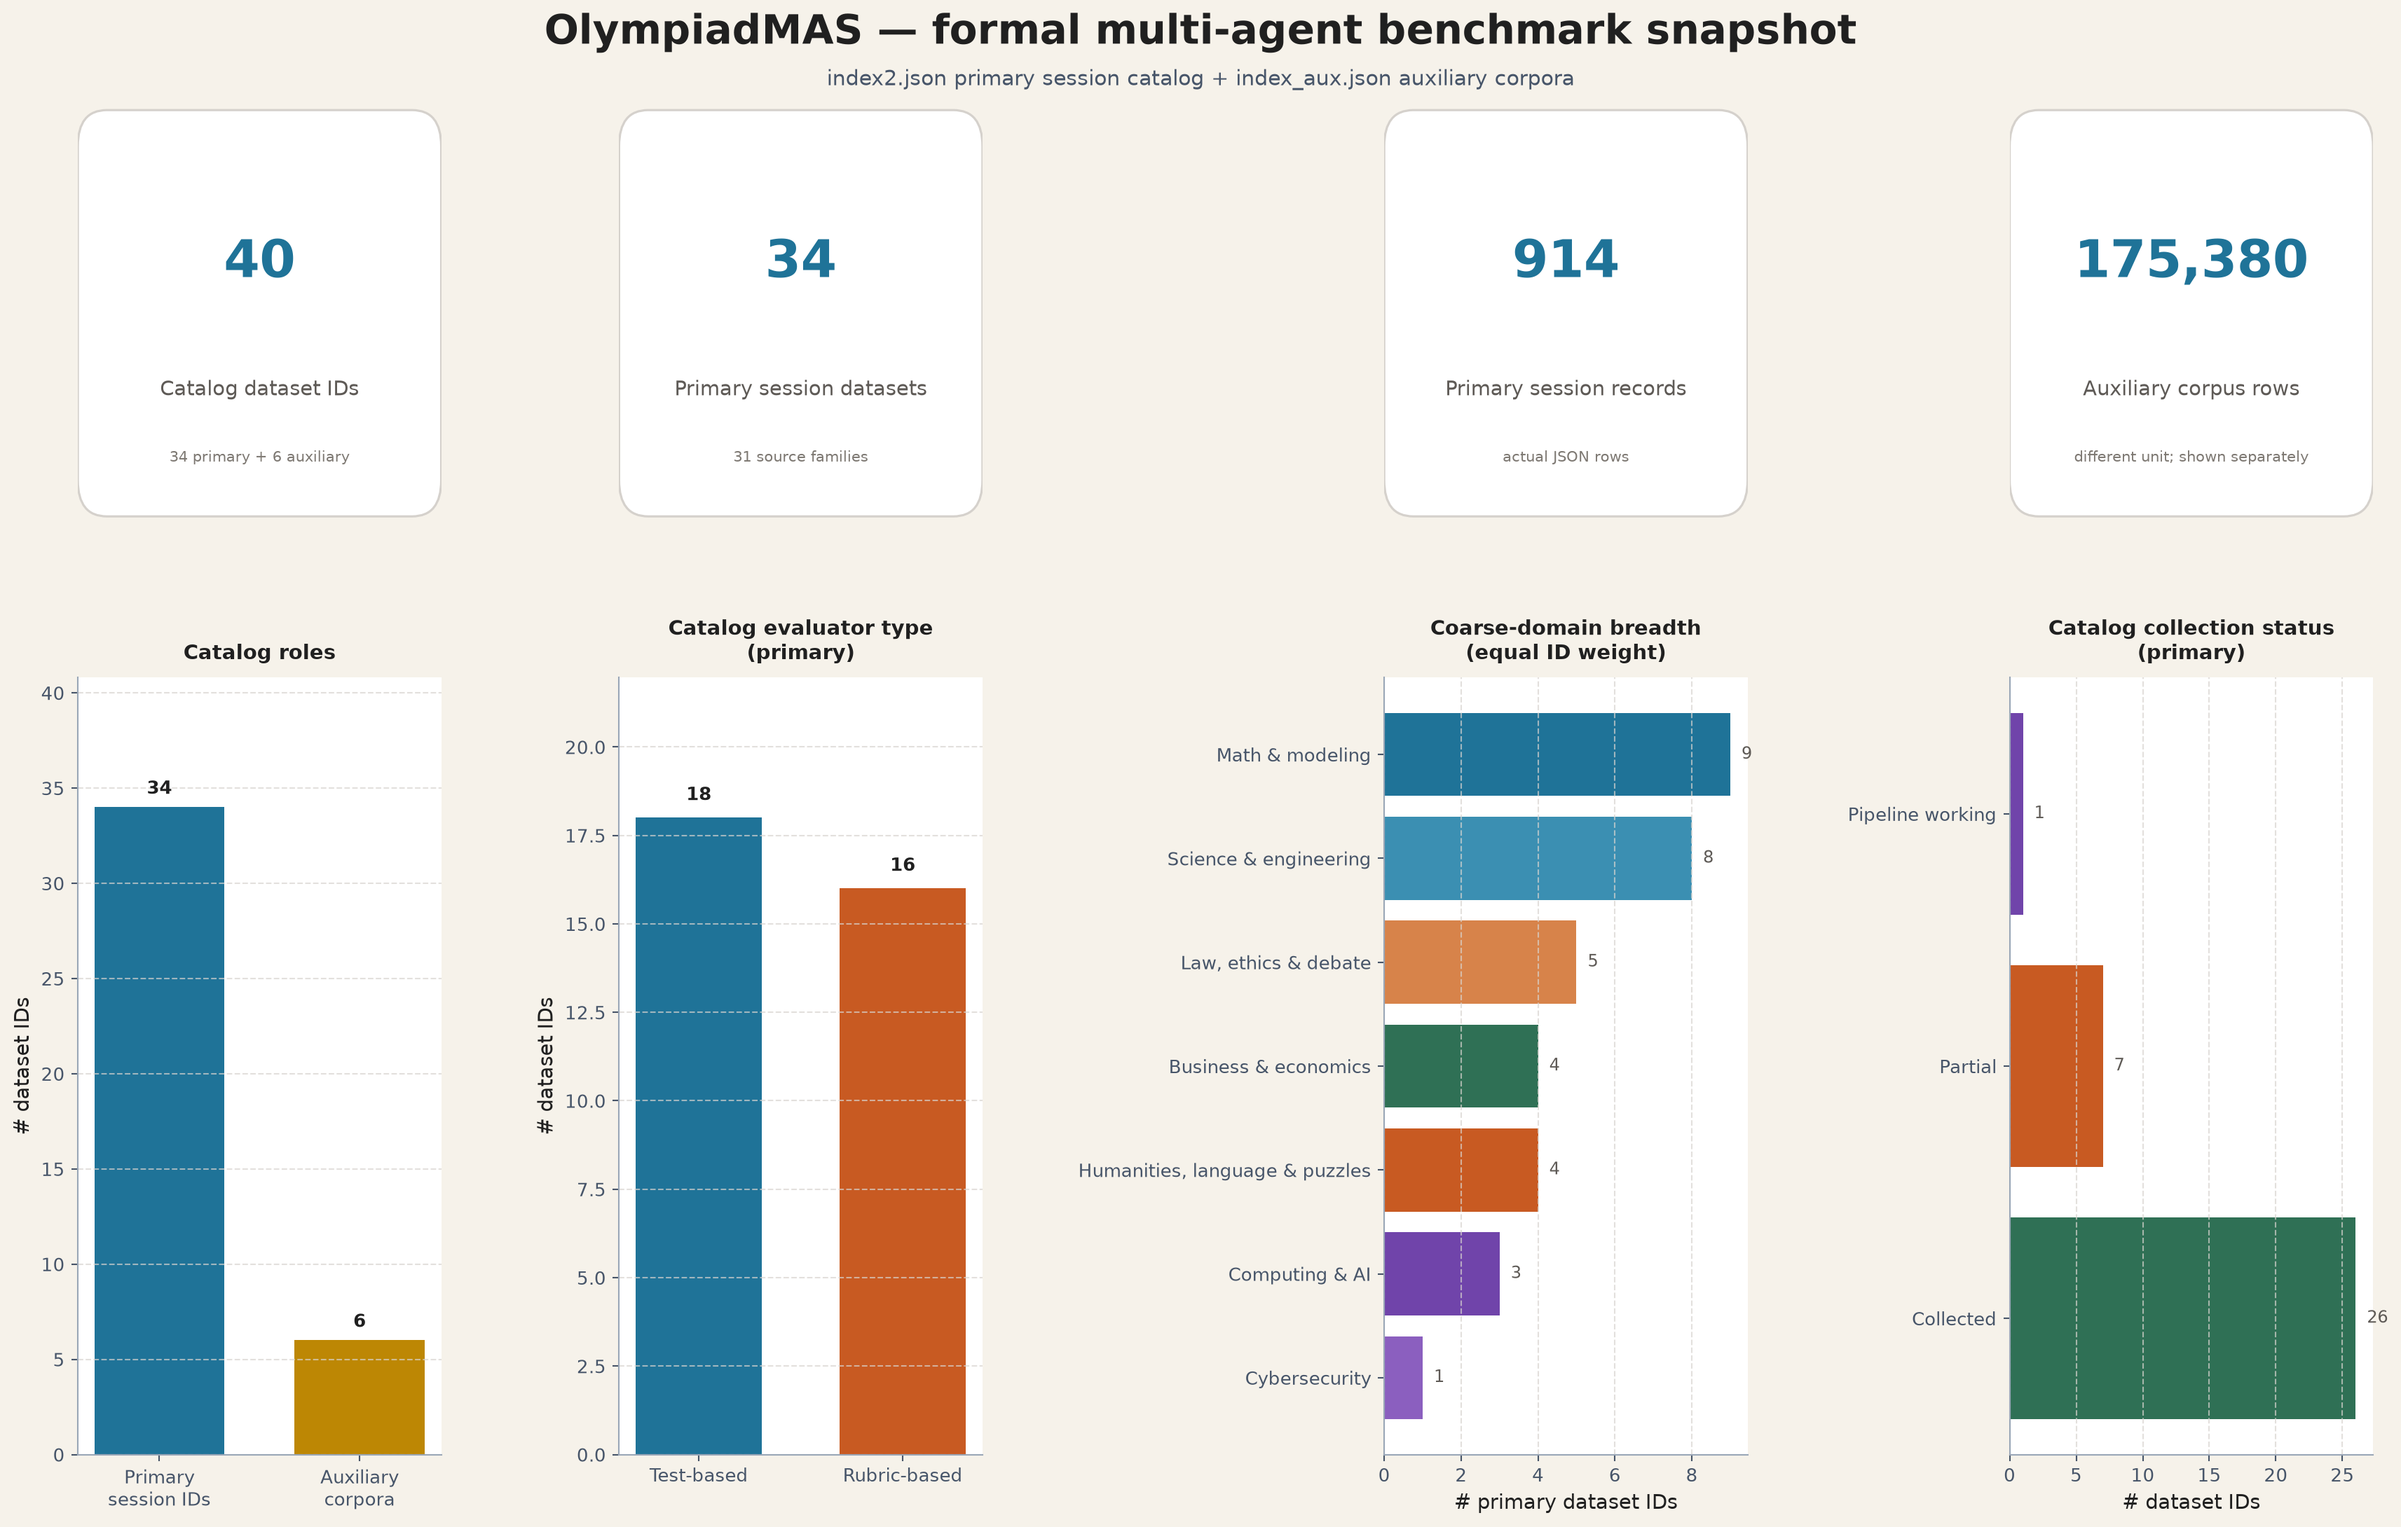
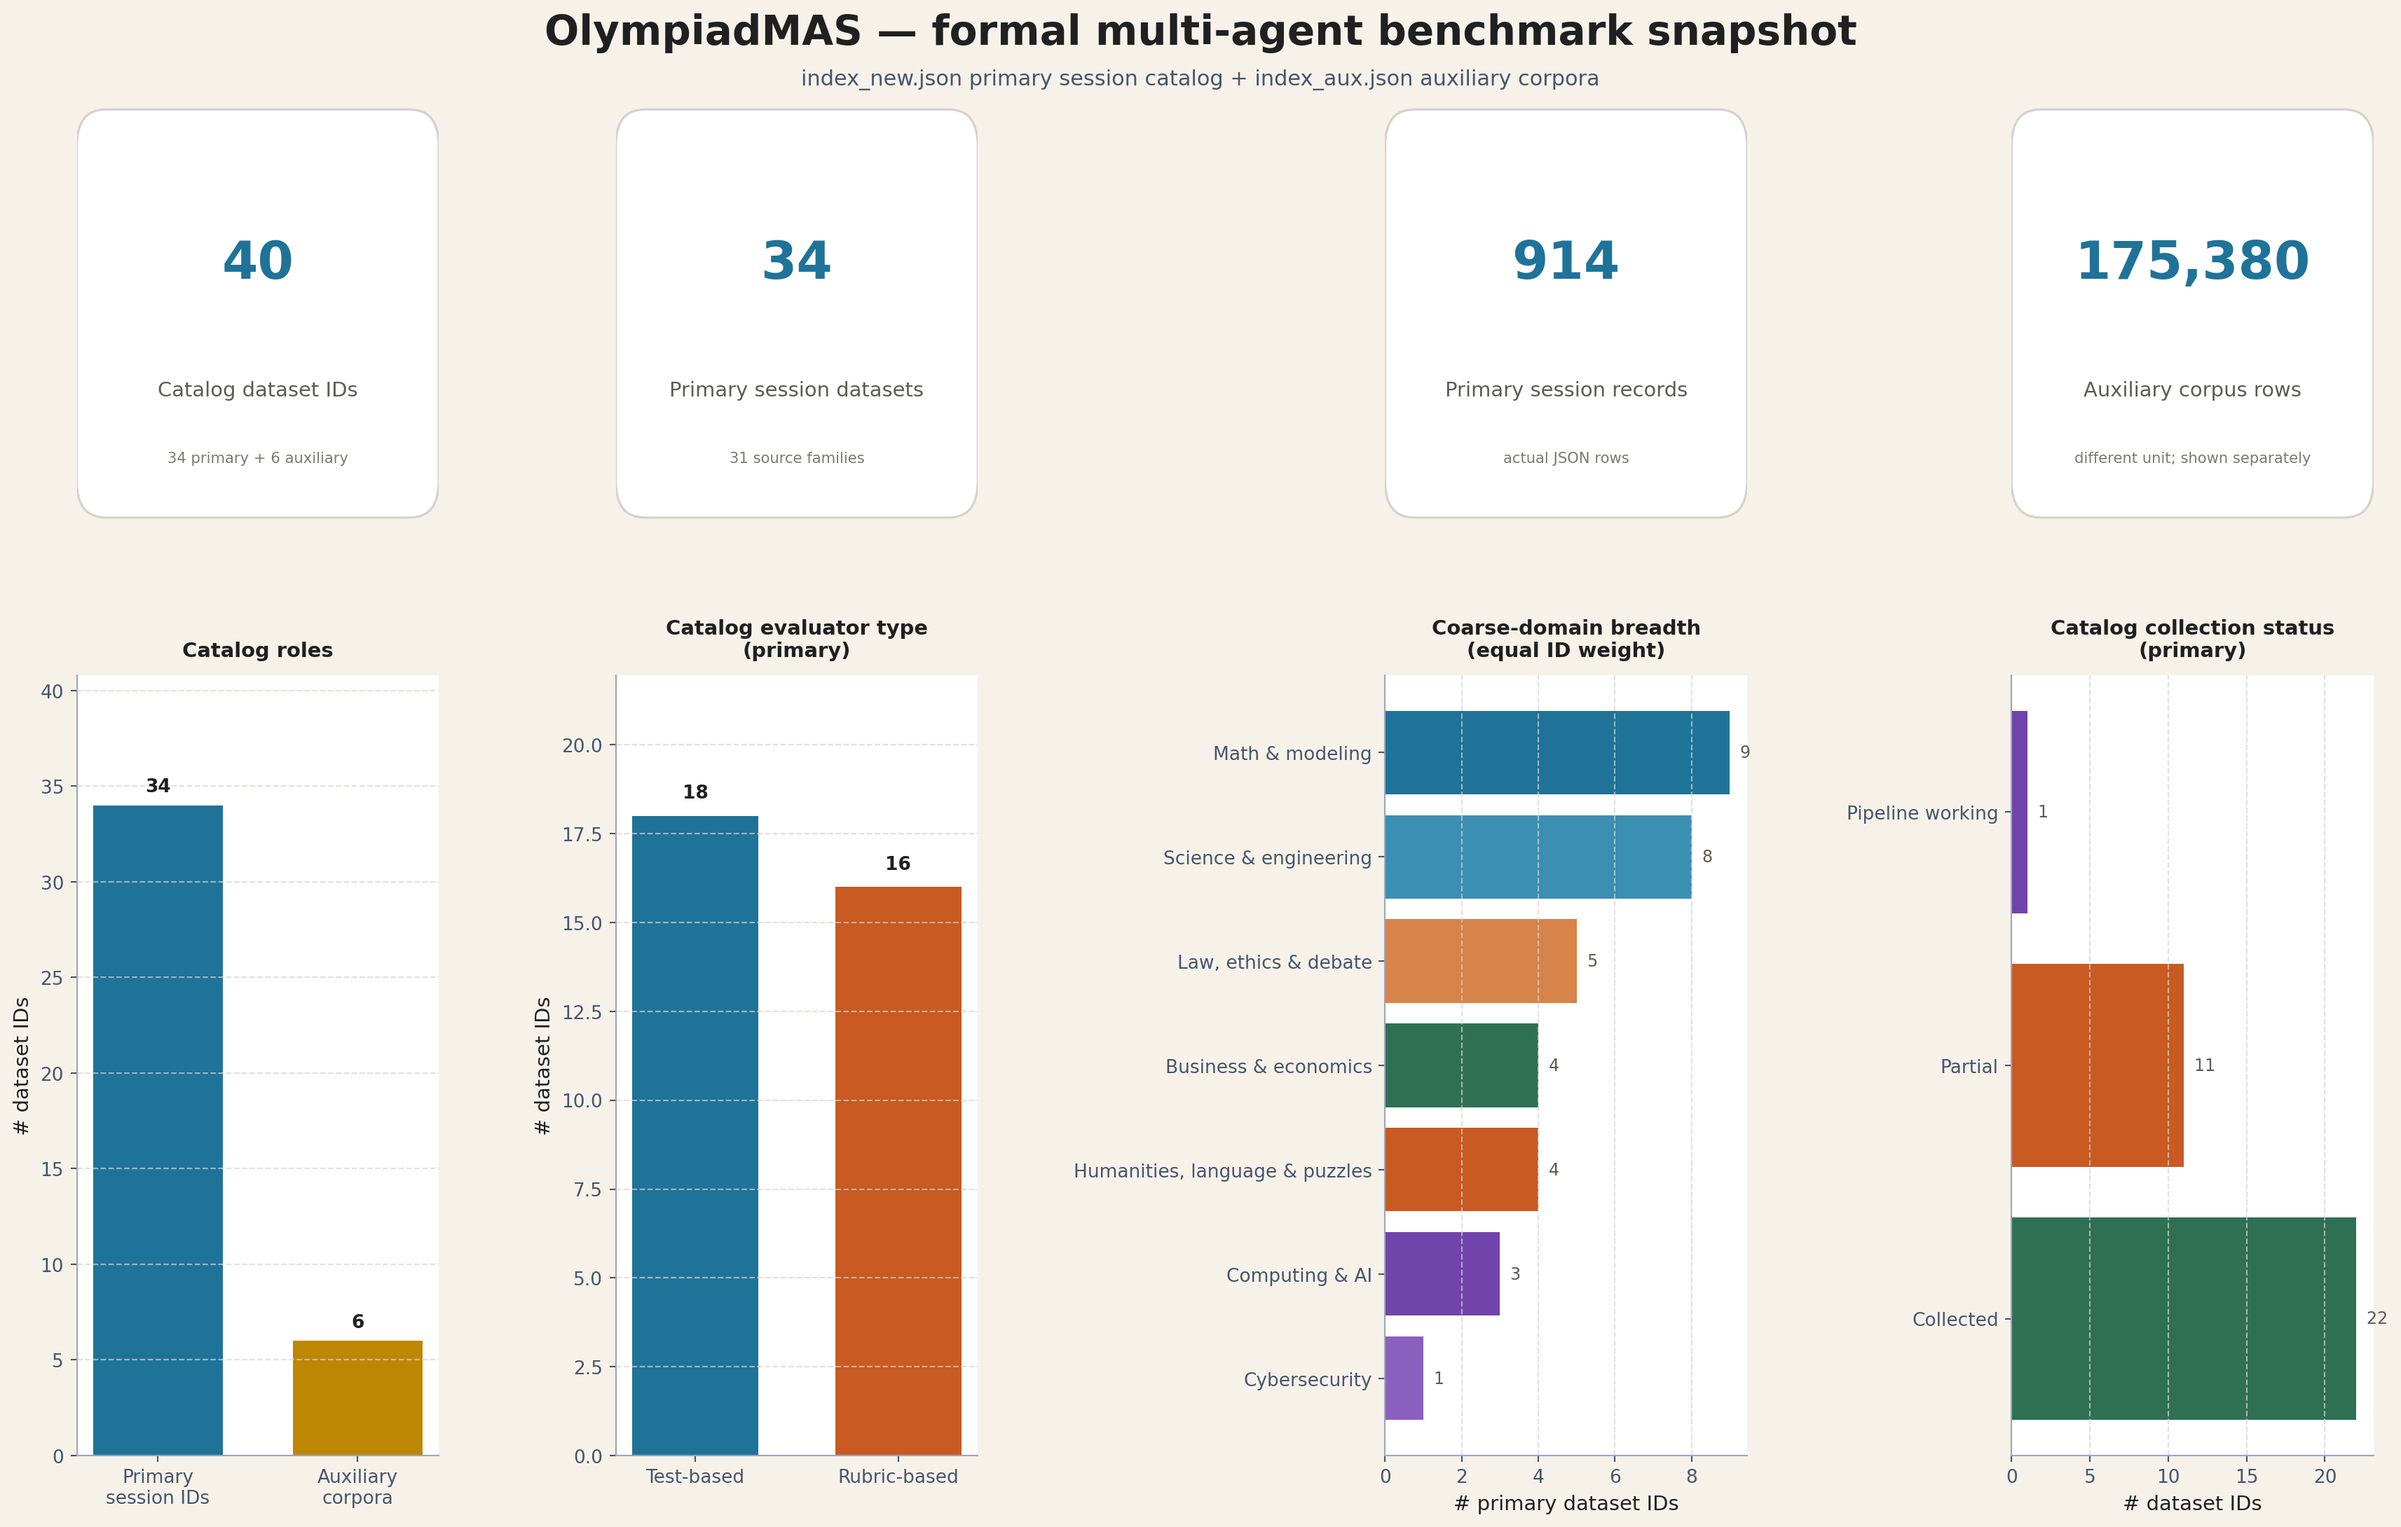
Remove unused family_radar viz and renumber figures 07-12.
Drop the four-weighting sensitivity chart; keep equal/raw domain views in the pie and divergence figures.

diff --git a/data/viz/generate.py b/data/viz/generate.py
@@ -160,14 +160,13 @@ FIGURES = [
     ("04_teamsize_scale_scatter", "Configured team size and primary scale"),
     ("05_coverage_gold", "Field, payload, path, and governance completeness"),
     ("06_year_coverage", "Exact-year primary archive presence"),
-    ("07_family_radar", "Domain weighting sensitivity"),
-    ("08_task_types", "Coarse task-mode mix under two weighting views"),
-    ("09_storyboard", "Multi-dimensional formal-catalog storyboard"),
-    ("10_domains_pie", "Coarse-domain composition pie charts"),
-    ("11_domain_weighting_divergence", "Detailed-domain weighting divergence"),
-    ("12_benchmark_profiles", "Per-benchmark multi-dimensional profiles"),
+    ("07_task_types", "Coarse task-mode mix under two weighting views"),
+    ("08_storyboard", "Multi-dimensional formal-catalog storyboard"),
+    ("09_domains_pie", "Coarse-domain composition pie charts"),
+    ("10_domain_weighting_divergence", "Detailed-domain weighting divergence"),
+    ("11_benchmark_profiles", "Per-benchmark multi-dimensional profiles"),
     (
-        "13_question_distribution",
+        "12_question_distribution",
         "Current primary question and task-unit distribution",
     ),
 ]
@@ -977,99 +976,6 @@ def figure_years(metrics: dict[str, Any]) -> None:
     save_figure(fig, "06_year_coverage")
 
 
-def weighting_views(metrics: dict[str, Any]) -> dict[str, dict[str, float]]:
-    track_values = list(metrics["tracks"].values())
-    views: dict[str, dict[str, float]] = {}
-
-    equal_ids = Counter(metric["coarse_domain"] for metric in track_values)
-    views["Equal dataset IDs"] = {
-        domain: equal_ids[domain] for domain in COARSE_DOMAINS
-    }
-
-    session_rows = Counter()
-    capped = Counter()
-    for metric in track_values:
-        session_rows[metric["coarse_domain"]] += metric["count"]
-        capped[metric["coarse_domain"]] += min(metric["count"], 30)
-    views["Raw session rows"] = {
-        domain: session_rows[domain] for domain in COARSE_DOMAINS
-    }
-    views["Capped at 30 / ID"] = {
-        domain: capped[domain] for domain in COARSE_DOMAINS
-    }
-
-    family_domains: dict[str, str] = {}
-    for metric in track_values:
-        family = metric["source_family"]
-        domain = metric["coarse_domain"]
-        previous = family_domains.setdefault(family, domain)
-        if previous != domain:
-            raise AssertionError(f"Source family {family} spans coarse domains")
-    family_counts = Counter(family_domains.values())
-    views["Equal source families"] = {
-        domain: family_counts[domain] for domain in COARSE_DOMAINS
-    }
-    return views
-
-
-def figure_weighting(metrics: dict[str, Any]) -> None:
-    views = weighting_views(metrics)
-    view_order = [
-        "Raw session rows",
-        "Equal dataset IDs",
-        "Equal source families",
-        "Capped at 30 / ID",
-    ]
-    matrix = np.zeros((len(COARSE_DOMAINS), len(view_order)))
-    for column, view in enumerate(view_order):
-        values = views[view]
-        total = sum(values.values())
-        for row, domain in enumerate(COARSE_DOMAINS):
-            matrix[row, column] = 100 * values[domain] / total
-
-    fig, ax = plt.subplots(figsize=(12, 8.8))
-    fig.subplots_adjust(left=0.20, right=0.90, top=0.90, bottom=0.18)
-    image = ax.imshow(matrix, cmap="YlGnBu", aspect="auto", vmin=0, vmax=matrix.max())
-    display_labels = [
-        "Raw session\nrows",
-        "Equal dataset\nIDs",
-        "Equal source\nfamilies",
-        "Capped at 30\nper ID",
-    ]
-    ax.set_xticks(range(len(view_order)), display_labels)
-    ax.set_yticks(range(len(COARSE_DOMAINS)), COARSE_DOMAINS)
-    ax.tick_params(axis="x", labelrotation=0)
-    for row in range(matrix.shape[0]):
-        for column in range(matrix.shape[1]):
-            value = matrix[row, column]
-            ax.text(
-                column,
-                row,
-                f"{value:.1f}%",
-                ha="center",
-                va="center",
-                fontweight="bold",
-                color="white" if value >= matrix.max() * 0.58 else COLORS["ink"],
-            )
-    ax.set_title(
-        "Domain share under four weighting rules"
-    )
-    ax.set_xlabel("Portfolio weighting view")
-    fig.text(
-        0.5,
-        0.035,
-        f"Primary only · {len(metrics['primary'])} dataset IDs · "
-        f"{metrics['n_source_families']} source families · "
-        "four ARML variants merge to one family",
-        ha="center",
-        fontsize=9,
-        color=COLORS["muted"],
-    )
-    colorbar = fig.colorbar(image, ax=ax, shrink=0.78)
-    colorbar.set_label("Share within weighting view")
-    save_figure(fig, "07_family_radar")
-
-
 def figure_task_modes(metrics: dict[str, Any]) -> None:
     id_counts = Counter(metric["task_mode"] for metric in metrics["tracks"].values())
     row_counts = Counter()
@@ -1103,7 +1009,7 @@ def figure_task_modes(metrics: dict[str, Any]) -> None:
         fontsize=18,
         fontweight="bold",
     )
-    save_figure(fig, "08_task_types")
+    save_figure(fig, "07_task_types")
 
 
 def figure_storyboard(metrics: dict[str, Any]) -> None:
@@ -1257,7 +1163,7 @@ def figure_storyboard(metrics: dict[str, Any]) -> None:
         color="#78736e",
         style="italic",
     )
-    save_figure(fig, "09_storyboard")
+    save_figure(fig, "08_storyboard")
 
 
 def figure_domains_pie(metrics: dict[str, Any]) -> None:
@@ -1319,7 +1225,7 @@ def figure_domains_pie(metrics: dict[str, Any]) -> None:
         ncol=4,
         bbox_to_anchor=(0.5, -0.01),
     )
-    save_figure(fig, "10_domains_pie")
+    save_figure(fig, "09_domains_pie")
 
 
 def figure_domain_weighting_divergence(metrics: dict[str, Any]) -> None:
@@ -1383,7 +1289,7 @@ def figure_domain_weighting_divergence(metrics: dict[str, Any]) -> None:
                 fontsize=7.5,
                 color=COLORS["muted"],
             )
-    save_figure(fig, "11_domain_weighting_divergence")
+    save_figure(fig, "10_domain_weighting_divergence")
 
 
 def figure_benchmark_profiles(metrics: dict[str, Any]) -> None:
@@ -1592,7 +1498,7 @@ def figure_benchmark_profiles(metrics: dict[str, Any]) -> None:
         bbox_to_anchor=(0.5, 0.025),
         ncol=6,
     )
-    save_figure(fig, "12_benchmark_profiles")
+    save_figure(fig, "11_benchmark_profiles")
 
 
 def figure_question_distribution(metrics: dict[str, Any]) -> None:
@@ -1812,7 +1718,7 @@ def figure_question_distribution(metrics: dict[str, Any]) -> None:
         fontsize=10,
         color=COLORS["muted"],
     )
-    save_figure(fig, "13_question_distribution")
+    save_figure(fig, "12_question_distribution")
 
 
 def write_summary(metrics: dict[str, Any]) -> None:
@@ -1943,7 +1849,7 @@ def write_summary(metrics: dict[str, Any]) -> None:
             "Temporal dots show exact nominal archive years and do not imply annual continuity.",
             "Question_count exists only for the three newly promoted archives and is not a portfolio-wide field.",
             "The primary question distribution uses positive question_count where stored; every other primary row contributes one question/task unit.",
-            "Equal dataset-ID weighting is sensitive to track splitting; the source-family view merges four ARML IDs.",
+            "Equal dataset-ID weighting is sensitive to track splitting (e.g. four ARML IDs).",
         ],
     }
     (OUTPUT / "summary.json").write_text(
@@ -1989,7 +1895,7 @@ def write_summary(metrics: dict[str, Any]) -> None:
             "- `index_new.json` (merged `index.json` + promotions) defines the primary scope here.",
             "- Catalog evaluator type and gold claims are metadata, not quality audits.",
             "- Embedded-answer, rubric, and human-baseline coverage are measured directly from JSON rows.",
-            "- Equal-ID, source-family, capped, and raw-row views answer different questions.",
+            "- Equal-ID and raw-row views answer different questions about portfolio composition.",
             "- Exact-year dots show nominal archive presence, not continuous evaluable coverage.",
             "- The primary question distribution uses positive `question_count` values where stored; every other primary row contributes one question/task unit.",
             "",
@@ -2010,7 +1916,6 @@ def main() -> int:
     figure_team_size(metrics)
     figure_completeness(metrics)
     figure_years(metrics)
-    figure_weighting(metrics)
     figure_task_modes(metrics)
     figure_storyboard(metrics)
     figure_domains_pie(metrics)

diff --git a/data/viz/README.md b/data/viz/README.md
@@ -22,13 +22,12 @@ python data/viz/generate.py
 - **Configured team size and primary scale** — [PNG](04_teamsize_scale_scatter.png)
 - **Field, payload, path, and governance completeness** — [PNG](05_coverage_gold.png)
 - **Exact-year primary archive presence** — [PNG](06_year_coverage.png)
-- **Domain weighting sensitivity** — [PNG](07_family_radar.png)
-- **Coarse task-mode mix under two weighting views** — [PNG](08_task_types.png)
-- **Multi-dimensional formal-catalog storyboard** — [PNG](09_storyboard.png)
-- **Coarse-domain composition pie charts** — [PNG](10_domains_pie.png)
-- **Detailed-domain weighting divergence** — [PNG](11_domain_weighting_divergence.png)
-- **Per-benchmark multi-dimensional profiles** — [PNG](12_benchmark_profiles.png)
-- **Current primary question and task-unit distribution** — [PNG](13_question_distribution.png)
+- **Coarse task-mode mix under two weighting views** — [PNG](07_task_types.png)
+- **Multi-dimensional formal-catalog storyboard** — [PNG](08_storyboard.png)
+- **Coarse-domain composition pie charts** — [PNG](09_domains_pie.png)
+- **Detailed-domain weighting divergence** — [PNG](10_domain_weighting_divergence.png)
+- **Per-benchmark multi-dimensional profiles** — [PNG](11_benchmark_profiles.png)
+- **Current primary question and task-unit distribution** — [PNG](12_question_distribution.png)
 
 ## Statistical guardrails
 
@@ -36,6 +35,6 @@ python data/viz/generate.py
 - `index_new.json` (merged `index.json` + promotions) defines the primary scope here.
 - Catalog evaluator type and gold claims are metadata, not quality audits.
 - Embedded-answer, rubric, and human-baseline coverage are measured directly from JSON rows.
-- Equal-ID, source-family, capped, and raw-row views answer different questions.
+- Equal-ID and raw-row views answer different questions about portfolio composition.
 - Exact-year dots show nominal archive presence, not continuous evaluable coverage.
 - The primary question distribution uses positive `question_count` values where stored; every other primary row contributes one question/task unit.
